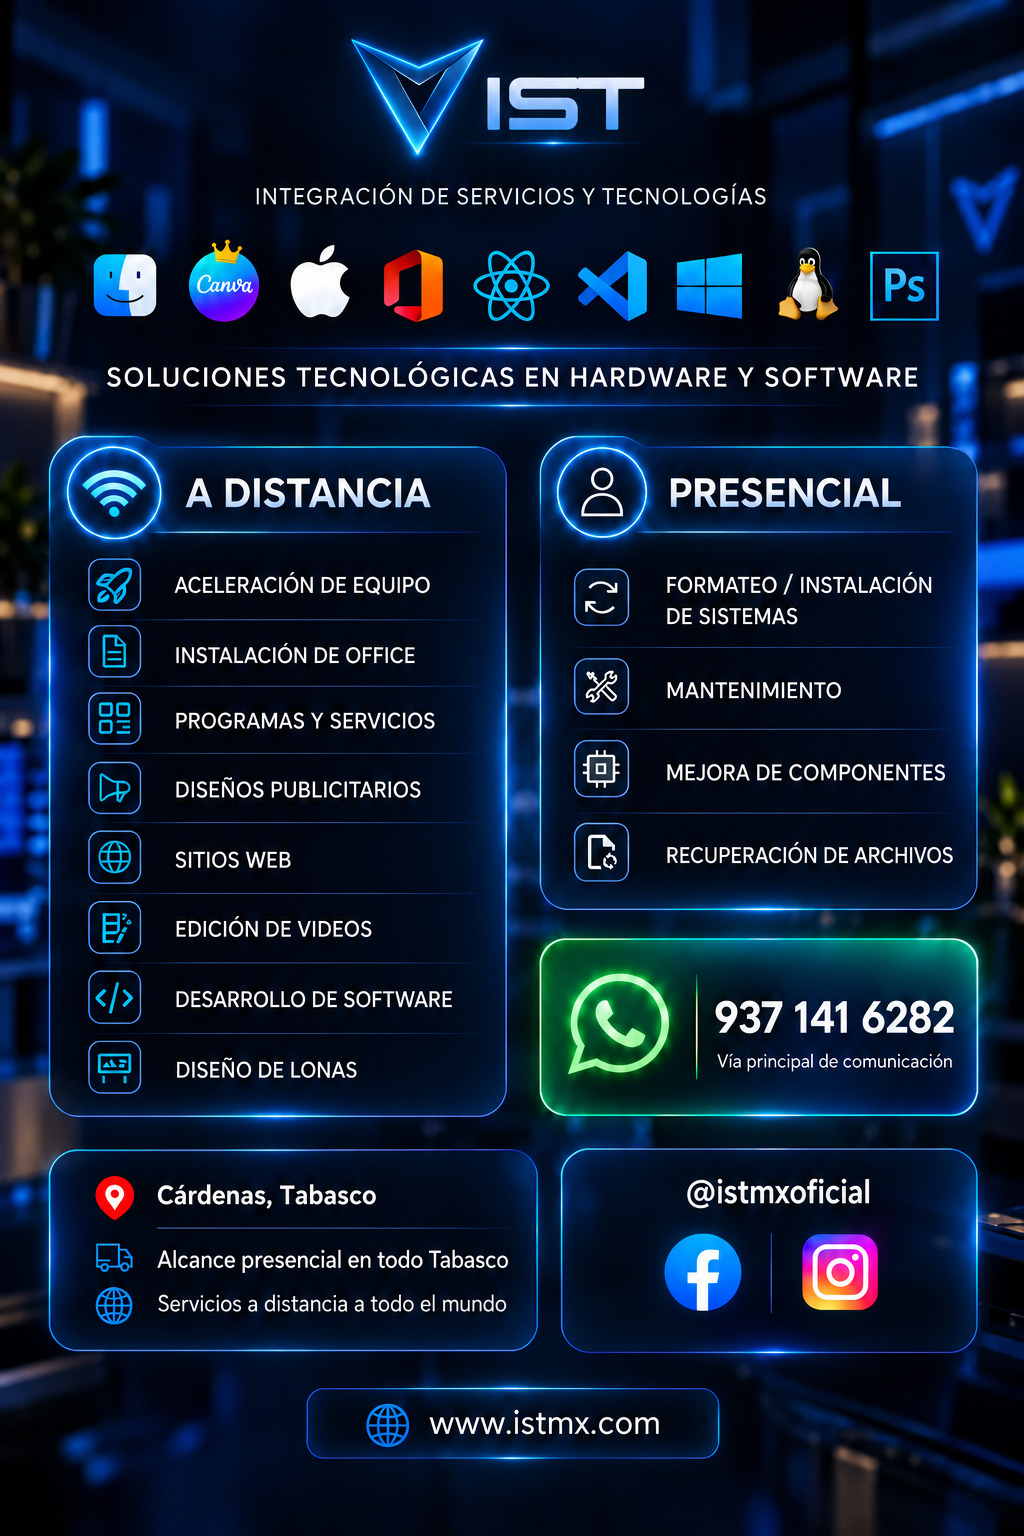
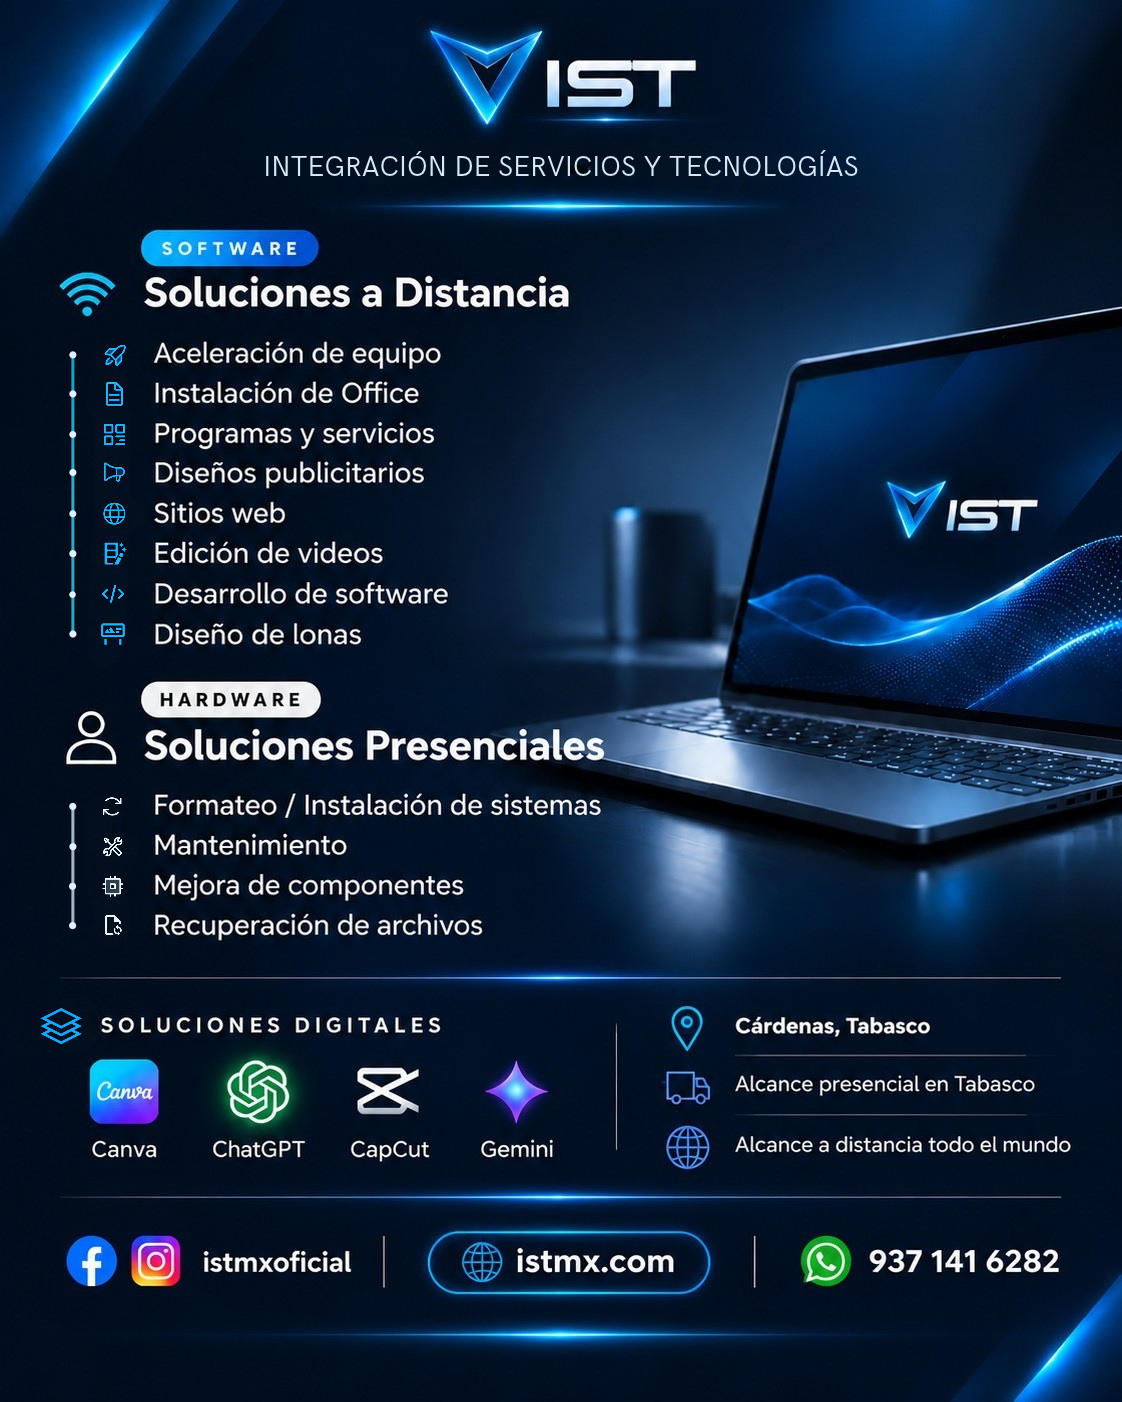
Nueva versión con nuevo estilo minimalista tecnologico

diff --git a/index.html b/index.html
@@ -26,7 +26,7 @@
 
     <link rel="preload"
       as="image"
-      href="heronew4.png"
+      href="hero3.webp"
       fetchpriority="high">
 </head>
 <body>
@@ -191,10 +191,10 @@
       <div class="hero-badge-container">
         <div class="announcement-pill" 
             data-action="modal" 
-            data-target="promo-pill.png" 
+            data-target="promos/destacado/chatgpt.png" 
             onclick="handleBadgeClick(this)">
-            <span class="pill-tag">Próximamente</span>
-            <span class="pill-text">ChatGPT, Capcut y más!</span>
+            <span class="pill-tag">Promoción</span>
+            <span class="pill-text">ChatGPT a $150 y más!</span>
             <iconify-icon icon="lucide:arrow-right" class="pill-icon"></iconify-icon>
         </div>
     </div>
@@ -210,7 +210,7 @@
   line-height: 1.6;
   font-weight: 400;
   letter-spacing: -0.01em;">
-        Soporte técnico, desarrollo web, diseño y soluciones a tu medida. Dondequiera que estés.
+        Desarrollamos e integramos soluciones tecnológicas para organizaciones, negocios y personas.
       </p>
       
       <div class="hero-download-wrap">
@@ -240,7 +240,7 @@
       <div style="margin-top:1.5rem">
   <span class="ist-badge" data-toggle="modal" data-target="#infoModal" title="Información">
     <iconify-icon icon="simple-icons:rustdesk" class="ist-infoicon"></iconify-icon>
-    <span class="ist-badge-text">Sobre RustDesk</span>
+    <span class="ist-badge-text">Sobre el Soporte Remoto</span>
   </span>
 </div>
       
@@ -352,10 +352,10 @@
 
           <div>
             <h4 class="ist-modal-title" id="infoModalLabel">
-              Sobre RustDesk
+              Sobre el Soporte Remoto
             </h4>
             <p class="ist-modal-subtitle">
-              Soporte remoto rápido, seguro y compatible con tu equipo.
+              Utilizamos RustDesk para brindarte nuestros servicios a distancia.
             </p>
           </div>
         </div>
@@ -379,7 +379,7 @@
                 <span class="ist-blue">RustDesk</span> para soporte remoto
               </h5>
               <p>
-                RustDesk es el programa que utilizamos en IST para poder realizar nuestros servicios a distancia en tu equipo de forma segura.
+                Es un programa compatible con cualquier sistema para conectarnos a distancia a tu equipo de forma rápida y segura. 
               </p>
             </div>
           </div>
@@ -437,7 +437,7 @@
 
     const heroImage = new Image();
 
-    heroImage.src = 'heronew4.png';
+    heroImage.src = 'hero3.webp';
 
     heroImage.onload = function () {
 
@@ -449,7 +449,7 @@
                 rgba(0, 5, 15, 0) 60%,
                 rgba(0, 0, 0, 0.212) 100%
             ),
-            url('heronew4.png')
+            url('hero3.webp')
         `;
 
         requestAnimationFrame(() => {
@@ -492,21 +492,21 @@ window.onload = function () {
     if (platform.includes('win')) {
         os = 'Windows';
         iconClass = 'bi-windows';
-        downloadLink = 'https://github.com/rustdesk/rustdesk/releases/download/1.4.7/rustdesk-1.4.7-x86_64.exe';
+        downloadLink = 'https://github.com/rustdesk/rustdesk/releases/download/1.5.1/rustdesk-1.5.1-x86_64.exe';
         
         btnClass = 'windows';
         infoLink = 'https://rustdesk.com';
     } else if (platform.includes('mac')) {
         os = 'macOS';
         iconClass = 'bi-apple';
-        downloadLink = 'https://github.com/rustdesk/rustdesk/releases/download/1.4.7/rustdesk-1.4.7-x86_64.dmg';
+        downloadLink = 'https://github.com/rustdesk/rustdesk/releases/download/1.5.1/rustdesk-1.5.1-x86_64.dmg';
         osImage = 'https://i.ibb.co/VcWv775Q/macos.png';
         btnClass = 'black2';
         infoLink = 'https://rustdesk.com';
     } else if (userAgent.includes('android')) {
         os = 'Android';
         iconClass = 'bi-android2';
-        downloadLink = 'https://github.com/rustdesk/rustdesk/releases/download/1.4.7/rustdesk-1.4.7-universal-signed.apk';
+        downloadLink = 'https://github.com/rustdesk/rustdesk/releases/download/1.5.1/rustdesk-1.5.1-universal-signed.apk';
         osImage = 'https://cdn-icons-png.flaticon.com/512/888/888857.png';
         btnClass = 'green';
         infoLink = 'https://rustdesk.com';
@@ -558,7 +558,7 @@ window.onload = function () {
     }
 
     if (btnText) {
-        btnText.innerText = 'Descargar RustDesk';
+        btnText.innerText = 'Descargar Soporte Remoto';
         btnText.style.color = '#ffffff';
     }
 

diff --git a/promociones.html b/promociones.html
@@ -424,17 +424,17 @@ window.addEventListener('keydown', (e) => {
           <button
             class="promociones-item"
             type="button"
-            data-promociones-src="promos/destacado/canva.png"
-            data-promociones-title="Canva Pro"
+            data-promociones-src="promos/destacado/chatgpt.png"
+            data-promociones-title="ChatGPT Plus"
             data-promociones-category="Destacado"
-            data-promociones-alt="Promoción de Canva Pro"
-            aria-label="Abrir promoción Canva Pro"
+            data-promociones-alt="Promoción de ChatGPT Plus"
+            aria-label="Abrir promoción ChatGPT Plus"
           >
             <span class="promociones-card">
               <img
                 class="promociones-card-image"
-                src="promos/destacado/canva.png"
-                alt="Promoción de Canva Pro"
+                src="promos/destacado/chatgpt.png"
+                alt="Promoción de ChatGPT Plus"
                 loading="lazy"
               >
 
@@ -449,7 +449,7 @@ window.addEventListener('keydown', (e) => {
             </span>
 
             <span class="promociones-card-info">
-              <strong class="promociones-card-title">Canva Pro</strong>
+              <strong class="promociones-card-title">ChatGPT Plus 1M</strong>
               <span class="promociones-card-label">Destacado</span>
             </span>
           </button>
@@ -457,17 +457,17 @@ window.addEventListener('keydown', (e) => {
           <button
             class="promociones-item"
             type="button"
-            data-promociones-src="promos/destacado/office.png"
-            data-promociones-title="Office permanente"
+            data-promociones-src="promos/destacado/chatgpt3.png"
+            data-promociones-title="ChatGPT Plus 3M"
             data-promociones-category="Destacado"
-            data-promociones-alt="Promoción de Office permanente"
-            aria-label="Abrir promoción Office permanente"
+            data-promociones-alt="Promoción de ChatGPT Plus 3M"
+            aria-label="Abrir promoción ChatGPT Plus 3M"
           >
             <span class="promociones-card">
               <img
                 class="promociones-card-image"
-                src="promos/destacado/office.png"
-                alt="Promoción de Office permanente"
+                src="promos/destacado/chatgpt3.png"
+                alt="Promoción de ChatGPT Plus 3M"
                 loading="lazy"
               >
 
@@ -482,7 +482,40 @@ window.addEventListener('keydown', (e) => {
             </span>
 
             <span class="promociones-card-info">
-              <strong class="promociones-card-title">Office permanente</strong>
+              <strong class="promociones-card-title">ChatGPT Plus 3M</strong>
+              <span class="promociones-card-label">Destacado</span>
+            </span>
+          </button>
+
+          <button
+            class="promociones-item"
+            type="button"
+            data-promociones-src="promos/destacado/capcut.png"
+            data-promociones-title="CapCut PRO"
+            data-promociones-category="Destacado"
+            data-promociones-alt="Promoción de CapCut PRO"
+            aria-label="Abrir promoción CapCut PRO"
+          >
+            <span class="promociones-card">
+              <img
+                class="promociones-card-image"
+                src="promos/destacado/capcut.png"
+                alt="Promoción de CapCut PRO"
+                loading="lazy"
+              >
+
+              <span class="promociones-card-overlay">
+                <span class="promociones-card-action">
+                  <iconify-icon icon="lucide:maximize-2"></iconify-icon>
+                  Ver promoción
+                </span>
+              </span>
+
+              <span class="promociones-card-shine"></span>
+            </span>
+
+            <span class="promociones-card-info">
+              <strong class="promociones-card-title">CapCut PRO 1M</strong>
               <span class="promociones-card-label">Destacado</span>
             </span>
           </button>
